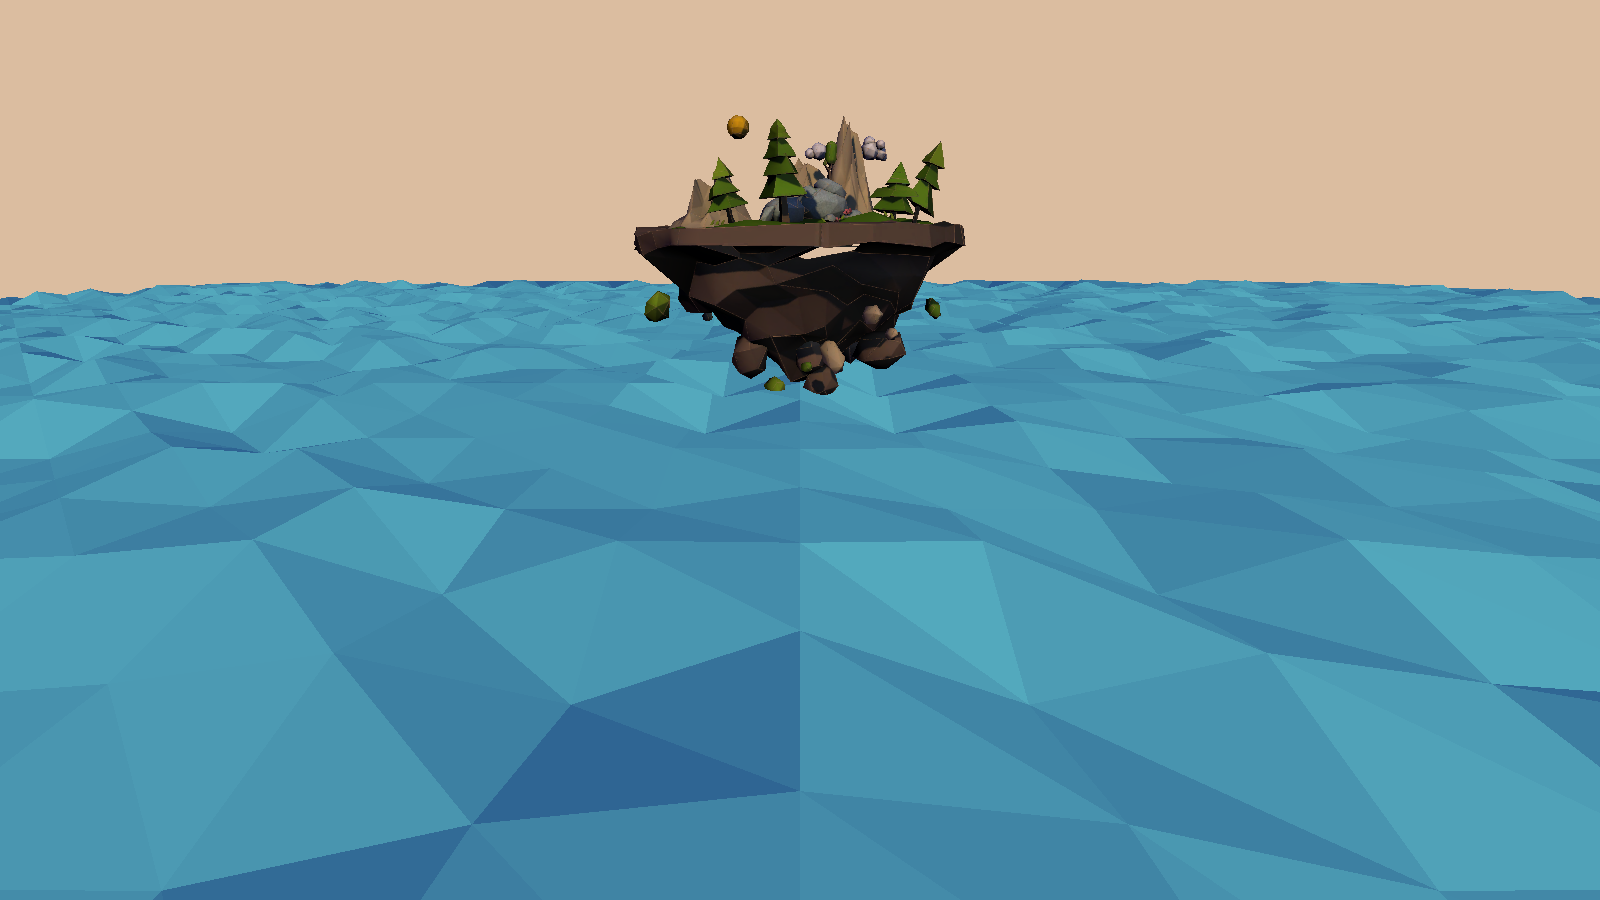
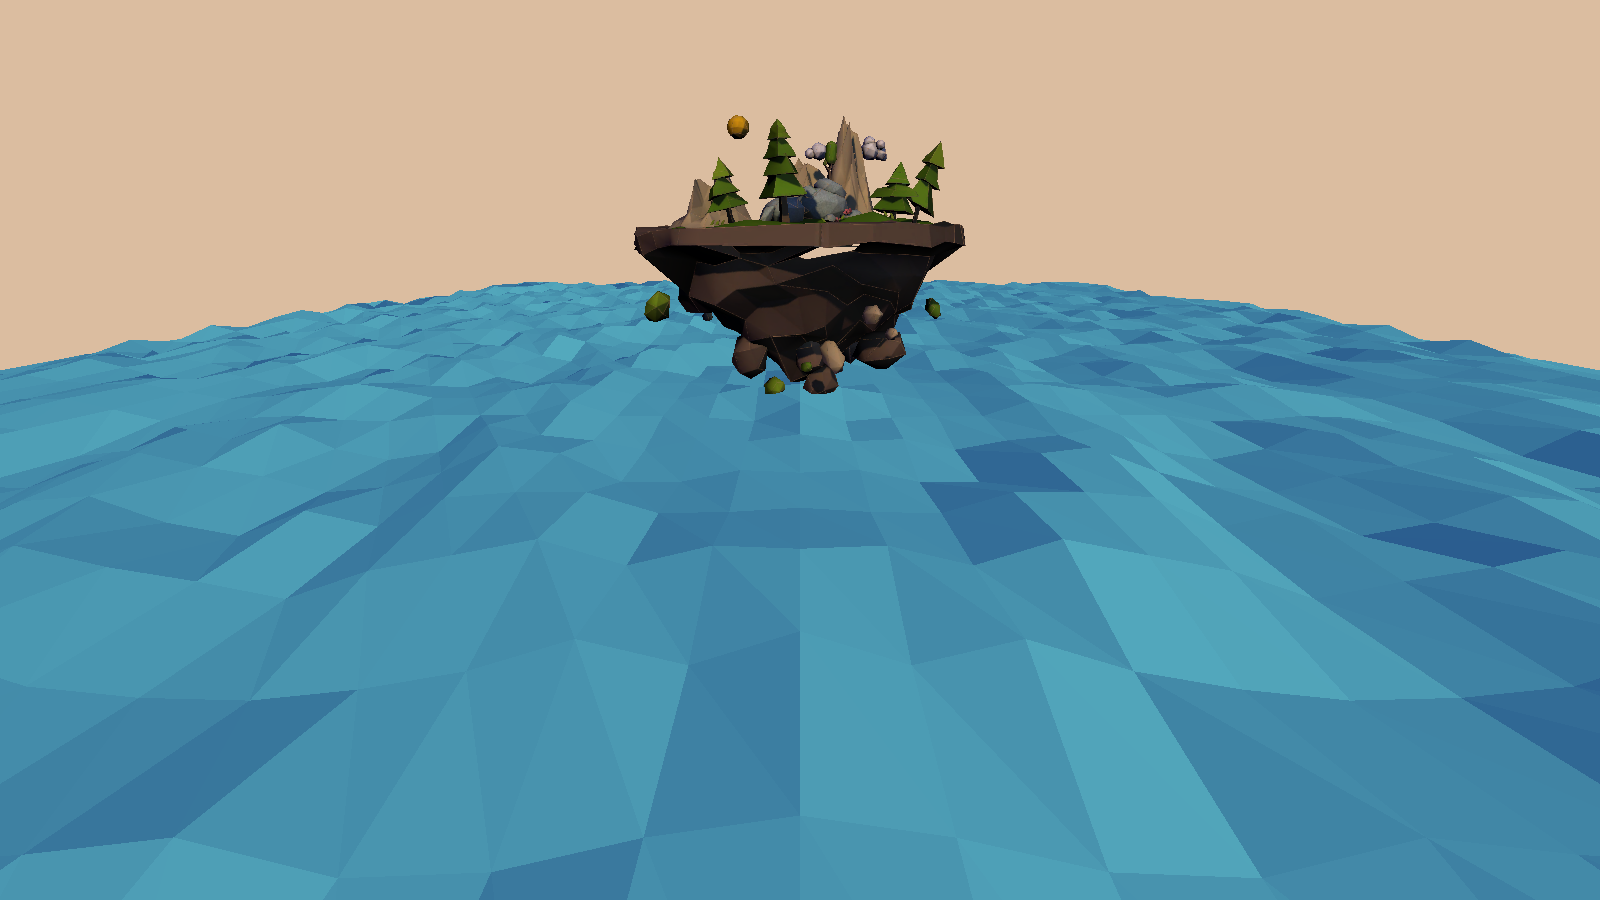
Fix enemy navigation steps and water culling bounds

diff --git a/Tools/UnityChecks/NavigationCheck.cs b/Tools/UnityChecks/NavigationCheck.cs
@@ -28,19 +28,30 @@ public sealed class NavigationCheck : MonoBehaviour
         var navObject = new GameObject("Runtime navigation"); navObject.transform.position = new Vector3(80, 0, 80); var navigation = navObject.AddComponent<EcoNavigation>(); navigation.worldSize = new Vector3(30, 10, 30);
         var enemyObject = new GameObject("Maze enemy"); enemyObject.transform.position = new Vector3(80, 0.03f, 82);
         var motor = enemyObject.AddComponent<CharacterController>(); motor.radius = 0.35f; motor.height = 1.6f; motor.center = Vector3.up * 0.8f;
+        float initialMinMoveDistance = motor.minMoveDistance;
         var enemy = enemyObject.AddComponent<EnemyBrain>(); enemy.species = EnemyBrain.Species.Slime; enemy.detectionRange = 30; enemy.leashRange = 40; enemy.chaseSpeed = 4; enemy.attackRange = 1.2f; enemy.patrolRadius = 0;
+        report += "SETUP minMoveDistance before brain=" + initialMinMoveDistance + ", after=" + motor.minMoveDistance + "\n";
         float deadline = Time.time + 15;
         while (!navigation.Ready && Time.time < deadline) yield return null;
         Check(navigation.Ready, "Runtime navigation is built from scene colliders");
         Check(NavMesh.SamplePosition(enemy.transform.position, out _, 1, NavMesh.AllAreas), "Enemy stands on a valid navigable surface");
         yield return null;
         enemy.TakeDamage(1); float maximumZ = enemy.transform.position.z; deadline = Time.time + 10; float nextDebug = 0;
+        int frames = 0, subthresholdFrames = 0;
+        float totalDelta = 0, minimumDelta = float.PositiveInfinity, maximumDelta = 0, distanceMoved = 0;
+        Vector3 previousPosition = enemy.transform.position;
         while (Vector3.Distance(enemy.transform.position, target.transform.position) > 1.5f && Time.time < deadline)
         {
+            frames++; totalDelta += Time.deltaTime;
+            minimumDelta = Mathf.Min(minimumDelta, Time.deltaTime); maximumDelta = Mathf.Max(maximumDelta, Time.deltaTime);
+            if (enemy.chaseSpeed * Time.deltaTime < initialMinMoveDistance) subthresholdFrames++;
+            Vector3 movement = enemy.transform.position - previousPosition; movement.y = 0;
+            distanceMoved += movement.magnitude; previousPosition = enemy.transform.position;
             maximumZ = Mathf.Max(maximumZ, enemy.transform.position.z);
-            if (Time.time >= nextDebug) { nextDebug = Time.time + 1; report += "TRACE " + enemy.transform.position + " " + enemy.State + " route=" + enemy.GetComponent<EcoEnemyPath>().HasRoute + "\n"; }
+            if (Time.time >= nextDebug) { nextDebug = Time.time + 1; report += "TRACE " + enemy.transform.position + " " + enemy.State + " route=" + enemy.GetComponent<EcoEnemyPath>().HasRoute + " velocity=" + motor.velocity + " delta=" + Time.deltaTime + " collisions=" + motor.collisionFlags + "\n"; }
             yield return null;
         }
+        report += "TIMING frames=" + frames + ", delta min/mean/max=" + minimumDelta + "/" + (totalDelta / Mathf.Max(1, frames)) + "/" + maximumDelta + ", steps below original movement threshold=" + subthresholdFrames + ", horizontal distance=" + distanceMoved + "\n";
         Check(maximumZ > 86, "Enemy leaves the open end of the U instead of pushing into the blocking wall (max Z " + maximumZ + ", final " + enemy.transform.position + ")");
         Check(Vector3.Distance(enemy.transform.position, target.transform.position) < 1.5f, "Enemy completes the route around a concave obstacle and reaches the player");
         enemy.enabled = false;

diff --git a/Assets/LowPolyWater_Pack/Scripts/LowPolyWater.cs b/Assets/LowPolyWater_Pack/Scripts/LowPolyWater.cs
@@ -40,7 +40,7 @@ namespace LowPolyWater
             mesh.uv = uv;
             mesh.triangles = triangles;
             mesh.RecalculateNormals();
-            mesh.RecalculateBounds();
+            RefreshBounds();
             filter.sharedMesh = mesh;
         }
         private void Update()
@@ -57,7 +57,15 @@ namespace LowPolyWater
             }
             mesh.vertices = vertices;
             mesh.RecalculateNormals();
+            RefreshBounds();
+        }
+        private void RefreshBounds()
+        {
             mesh.RecalculateBounds();
+            // A small margin keeps boundary vertices inside the box despite floating-point rounding.
+            var bounds = mesh.bounds;
+            bounds.Expand(0.01f);
+            mesh.bounds = bounds;
         }
         private void OnDestroy()
         {

diff --git a/Tools/UnityChecks/LowPolyWaterCheck.cs b/Tools/UnityChecks/LowPolyWaterCheck.cs
@@ -111,7 +111,7 @@ public sealed class LowPolyWaterCheck : MonoBehaviour
             if (!Finite(vertex)) throw new Exception("Zero wave length created an invalid vertex");
         Check(true, "Zero wave length is safe");
         foreach (var vertex in mesh.vertices)
-            if (!mesh.bounds.Contains(vertex)) throw new Exception("Water vertex lies outside its culling bounds");
+            if (!mesh.bounds.Contains(vertex)) throw new Exception("Water vertex " + vertex + " lies outside its culling bounds " + mesh.bounds);
         Check(true, "Animated bounds contain all wave vertices");
         var camera = Camera.main;
         Check(camera != null, "Demo camera loads without obsolete or missing components");

diff --git a/Assets/Scripts/Enemies/EnemyBrain.cs b/Assets/Scripts/Enemies/EnemyBrain.cs
@@ -35,6 +35,9 @@ public sealed class EnemyBrain : MonoBehaviour
     private void Awake()
     {
         motor = GetComponent<CharacterController>();
+        // Preserve small per-frame steps even when the runtime runs without a frame cap.
+        motor.minMoveDistance = 0f;
+        player = FindFirstObjectByType<PlayerVitals>();
         EcoNavigation.Ignore(gameObject); route = gameObject.AddComponent<EcoEnemyPath>();
         home = transform.position; Health = maximumHealth;
         gameObject.AddComponent<EnemyHealthBar>();

diff --git a/Documentation/EnemySystem.md b/Documentation/EnemySystem.md
@@ -10,7 +10,7 @@ MainScene'deki Enemys nesnesinin EnemySceneSetup bileşeni, Play başladığınd
 | SlimeMonster | Yakın takip | Yakın saldırı, 12 hasar ve 1,5 saniye yavaşlama | 90 | 5 plastik |
 | SmokeCreature | Görüş baskısı | Yakında 2,5 saniyelik duman perdesi, doğrudan hasar yok | 55 | 2 plastik |
 
-Düşmanlar çevrelerinde devriye gezer, görüş alanındaki oyuncuyu takip eder, saldırı klibinin yaklaşık %45'inde vuruşu uygular ve bekleme süresinden sonra yeniden saldırır. Oyuncu menzilden kaçarsa veya araya duvar girerse vuruş iptal olur. Uzaktan saldıranlar mesafeyi korur. Oyuncuyu kaybeden veya başlangıç noktasından çok uzaklaşan düşman geri döner. Yere basma, basamaklar ve çarpışmalar CharacterController ile; basit engel ve uçurum kaçınması fizik sorgularıyla yapılır. Bu sistem NavMesh tabanlı tam rota bulma değildir.
+Düşmanlar çevrelerinde devriye gezer, görüş alanındaki oyuncuyu takip eder, saldırı klibinin yaklaşık %45'inde vuruşu uygular ve bekleme süresinden sonra yeniden saldırır. Oyuncu menzilden kaçarsa veya araya duvar girerse vuruş iptal olur. Uzaktan saldıranlar mesafeyi korur. Oyuncuyu kaybeden veya başlangıç noktasından çok uzaklaşan düşman geri döner. EcoNavigation sahne collider'larından çalışma sırasında NavMesh hazırlar; EcoEnemyPath engellerin çevresinden rota hesaplar. Yere basma, basamaklar ve çarpışmalar CharacterController ile; yakın engel ve uçurum kaçınması fizik sorgularıyla yapılır. Yapı ekleme/sökme rotayı yeniler; doğal su yüzeyleri kara rotalarından çıkarılır.
 
 Düşman saldırıları sırasında hedefe uzanan çizgi gösterilmez; uzaktan saldıranların fiziksel mermileri ve saldırı animasyonları görünür. Oyuncunun kendi silah akışları bu değişiklikten etkilenmez. Demir top isabeti yaşayan düşmanı kısa mesafe geri iter; CharacterController hareketi duvarla sınırlar. Hasar alan düşmanın can barı kameraya dönük olarak collider'ın üzerinde görünür ve kalan cana göre soldan kısalır.
 
@@ -28,6 +28,10 @@ PlayerVitals, oyuncuya 100 karakter enerjisi, geçici yavaşlama ve duman perdes
 
 Ek hareket kontrolünde beş gerçek düşman prefabının her biri düz zeminde ve 10 cm basamakta ilerledi, 45 cm kutunun çevresinden fiziksel olarak geçti ve normal takip hızındayken darbe yönünde oyuncudan uzaklaştı. Toplam 35 hareket kontrolü geçti. Bu yerel engel kaçınması, karmaşık kapalı koridorlarda tam rota bulma garantisi vermez.
 ## Güncel silah bağlantısı
+
+Teneke demir top isabetinde en fazla beş saniye sersemler; saldırı hazırlığı kesilir ve hareketi durur. Bu sırada üç metre içinden E ile küçük hava filtresi takılabilir. Filtre marketten alınır, bir kez tüketilir ve Teneke'yi etkisizleştirir; 12 YEP ve toplam 6 metal ganimet yalnız bir kez verilir. Süre dolunca animasyon/hareket yeniden çalışır. Diğer türlere aynı filtre işlemi uygulanmaz.
+
+2 Ekim 2026: NavigationCheck 7; TinFilterCheck 17; WeaponRuntimeCheck 39 kontrolden geçti. Rota testinde 23.915 kareden 23.573'ünün normal hareket eşiğinin altında kaldığı görüldü. EnemyBrain'in hareket eşiğini sıfırlamasıyla düşman aynı on saniyelik test içinde U engelinin açık ucundan çıktı ve oyuncuya ulaştı. Testin süre ve başarı koşulları değiştirilmedi. Düşmanların çevre/yapı hedefleri, doğma kuralları ve iklim canavarı bu doğrulamanın kapsamında henüz tamamlanmış değildir.
 
 Oyuncu silahları artık EnemyBrain.TakeDamage ile bağlıdır; kullanım ve HUD ayrıntıları PlayerWeapons.md içindedir. Sürekli su/anti-vakum hasarı düşmanın saldırı hazırlığını her karede sıfırlamaz.
 

diff --git a/Documentation/DevelopmentRoadmap.md b/Documentation/DevelopmentRoadmap.md
@@ -41,4 +41,5 @@ Baraj GDD'de ayrıntılı bir sistem değil, yanlış kurulum örneğidir; ayrı
 - 27 Eylül: 6. aşama mevcut saha tezgâhına bağlandı. Alışveriş/ürün satışı, dokuz üç kademeli ekipman geliştirmesi, elektrik artışı, kapasite ve seviye/hak sınırları hazır. MarketCheck 67; ResourceProgressionCheck 40; WeaponRuntimeCheck 39 kontrolden geçti. MarketVisualCheck alışveriş ve geliştirme ekranlarını render etti. Filtrelerin çevre/düşman hedeflerine uygulanması ilgili 7. ve 9. aşamalarda tamamlanacak. Ayrıntılar: MarketAndUpgrades.md.
 - 27 Eylül: 7. aşama iki eşit büyüklükte deneme bölgesiyle PowerStarter prefabına bağlandı. Fabrika filtresi, bölgesel hava/su/toprak ve karbon/sıcaklık, üretim/ürün etkileri, yanlış kurulum uyarısı ve sonucu, yangın söndürme ve atık toplamanın toprağı iyileştirmesi EnvironmentCheck ile 34 kontrolden geçti. WeaponRuntimeCheck 39, WaterInfrastructureCheck 43, PowerCheck 26, ConstructionCheck 26 kontrolle yeniden geçti. EnvironmentVisualCheck filtre öncesi/sonrası ve yangını render etti. Ayrıntılar: RegionalEnvironment.md.
 - 27 Eylül: 8. aşamada dört tohum türü, iklim/su/hasat farkları, ortak kapasite ve tür bazlı stoklar, böcek/gübre/kuş ilişkisi, kalıcı ağaçlandırma, canlı dönüşü ve temiz/kirli balıkçılık bağlandı. NatureCheck 36 kontrolden, ilgili market/silah/üretim/kaynak/çevre/inşa kontrolleri yeniden geçti. NatureVisualCheck görüntüleri incelendi. Ayrıntılar: FarmingAndWildlife.md.
-- Sıradaki: 9. aşama — düşmanların çevre/yapı hedefleri, yol bulma ve doğma kuralları, Teneke'ye filtre ve iklim canavarı. Tam dünya kaydı ve sonraki aşamalar henüz tamamlanmadı. Harita ve kapsamlı son testler planın sonunda kalıyor.
+- 2 Ekim: 9. aşamanın rota ve Teneke filtresi bölümü doğrulandı. NavigationCheck 7 kontrolle U biçimli engelden çıkış/oyuncuya erişme, yeni yapı/sökme ve kara rotalarından suyu dışlama kontrollerini geçti. Yüksek kare hızlarında küçük hareket adımlarının kaybolması giderildi. TinFilterCheck 17, WeaponRuntimeCheck 39 kontrolle yeniden geçti. Yeni Low Poly Water paketinin URP uyarlaması ayrıca 14 render/animasyon kontrolünden geçti. Ayrıntılar: EnemySystem.md ve LowPolyWaterCompatibility.md.
+- Sıradaki: 9. aşamanın kalan çevre/yapı hedefleri, doğma kuralları ve iklim canavarı. Bu aşama bütünüyle tamamlanmadı. Tam dünya kaydı ve sonraki aşamalar henüz tamamlanmadı. Harita ve kapsamlı son testler planın sonunda kalıyor.
